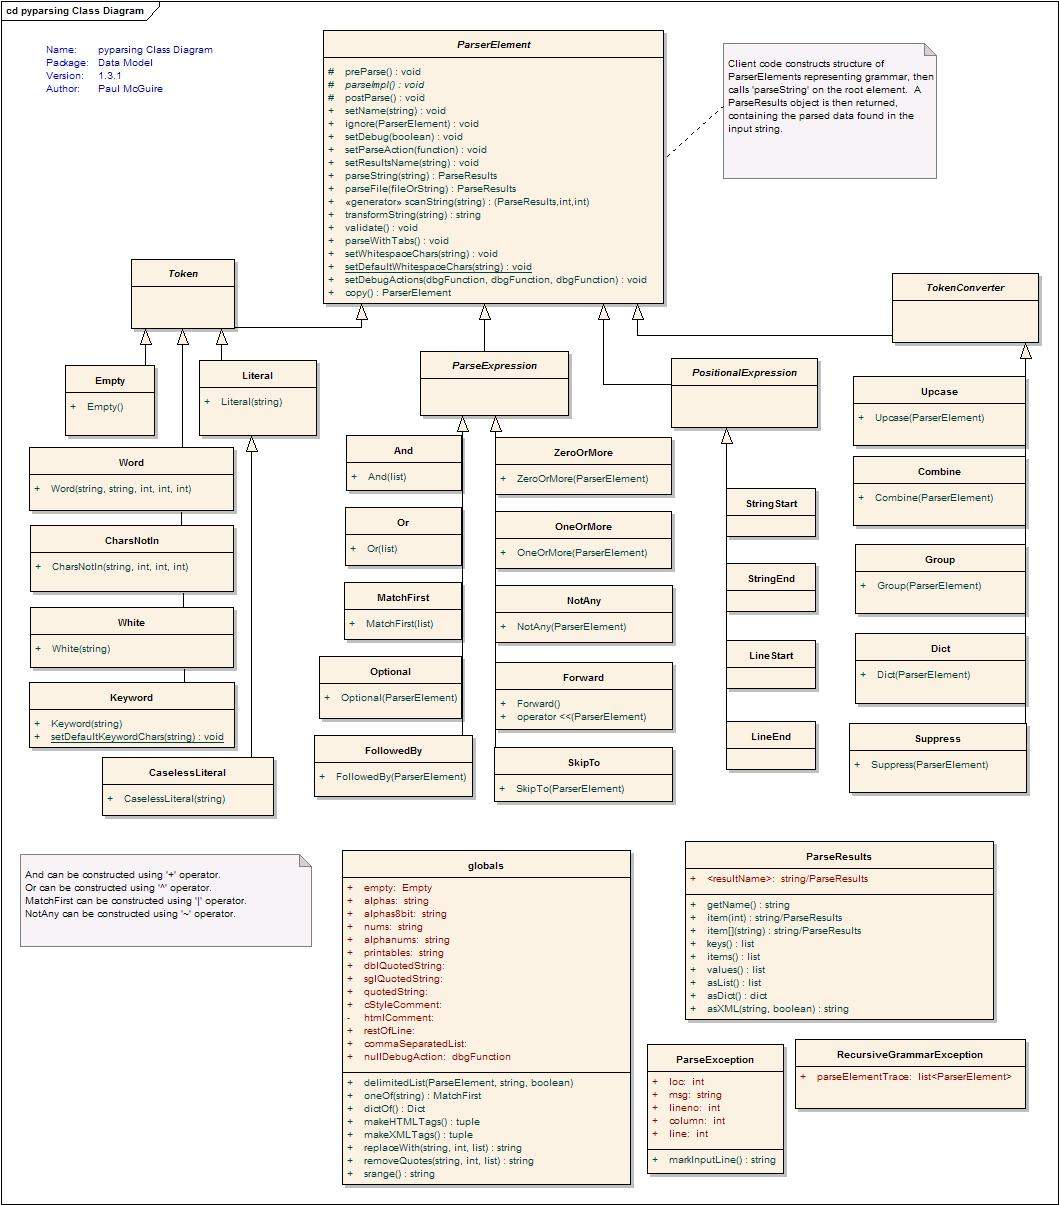
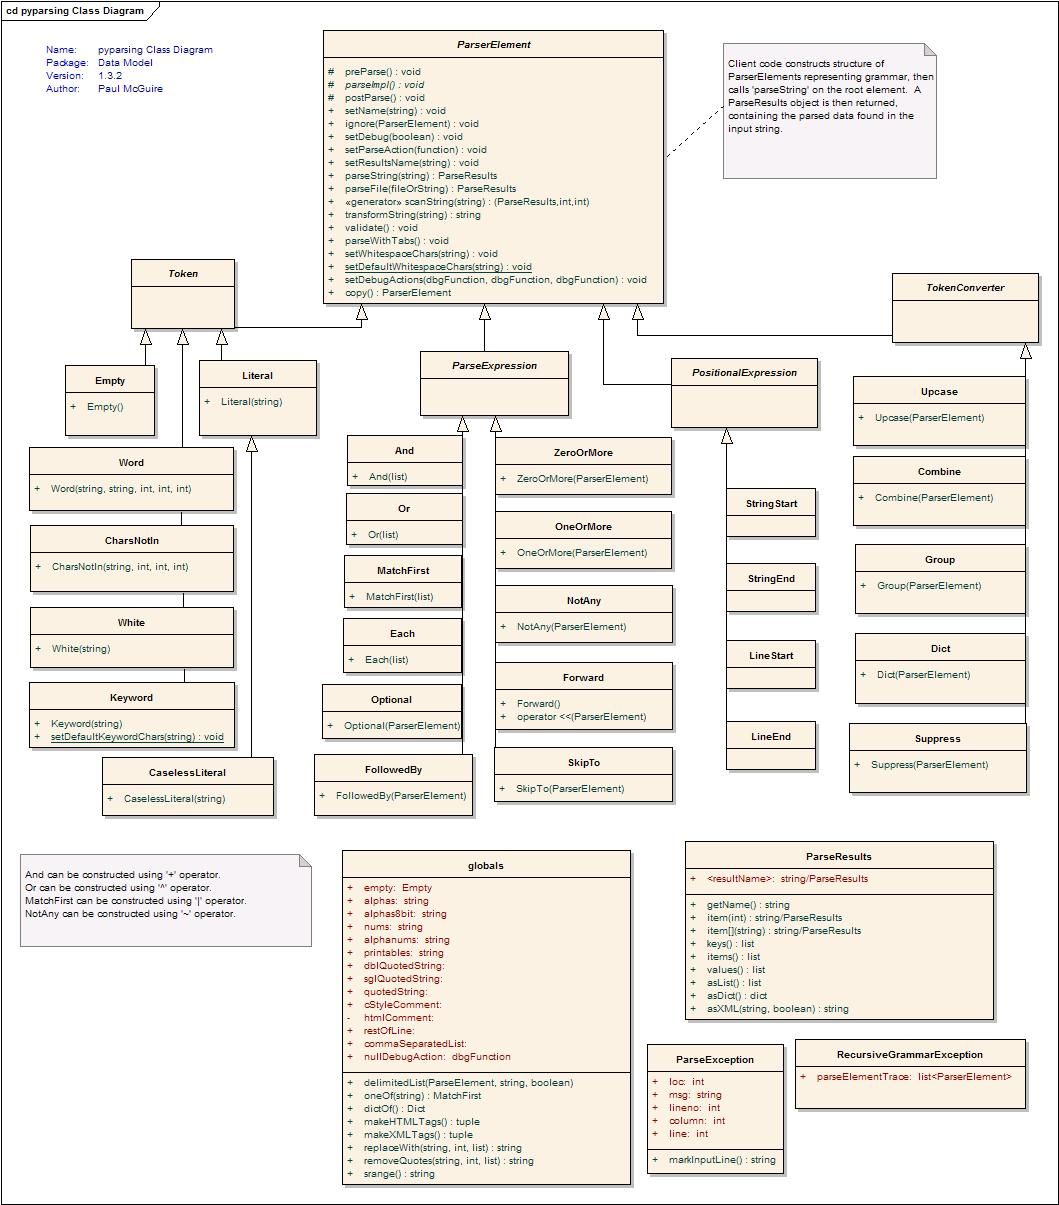
Version 1.3.2 files

Changed region(s): [[0.2805, 0.3685, 0.4674, 0.7062]]

diff --git a/pyparsing.py b/pyparsing.py
@@ -59,8 +59,8 @@ The pyparsing module handles some of the problems that are typically vexing when
  - quoted strings
  - embedded comments
 """
-__version__ = "1.3.1"
-__versionTime__ = "10 June 2005 08:43"
+__version__ = "1.3.2"
+__versionTime__ = "24 July 2005 17:37"
 __author__ = "Paul McGuire <ptmcg@users.sourceforge.net>"
 
 import string
@@ -700,6 +700,18 @@ class ParserElement(object):
             other = Literal( other )
         return other ^ self
 
+    def __and__(self, other ):
+        """Implementation of & operator - returns Each"""
+        if isinstance( other, basestring ):
+            other = Literal( other )
+        return Each( [ self, other ] )
+
+    def __rand__(self, other ):
+        """Implementation of right-& operator"""
+        if isinstance( other, basestring ):
+            other = Literal( other )
+        return other & self
+
     def __invert__( self ):
         """Implementation of ~ operator - returns NotAny"""
         return NotAny( self )
@@ -960,6 +972,8 @@ class Word(Token):
         else:
             self.bodyCharsOrig = initChars
             self.bodyChars = _str2dict(initChars)
+            
+        self.maxSpecified = max > 0
 
         self.minLen = min
 
@@ -991,8 +1005,14 @@ class Word(Token):
         maxloc = min( maxloc, len(instring) )
         while loc < maxloc and instring[loc] in bodychars:
             loc += 1
-
+            
+        throwException = False
         if loc - start < self.minLen:
+            throwException = True
+        if self.maxSpecified and loc < len(instring) and instring[loc] in bodychars:
+            throwException = True
+
+        if throwException:
             #~ raise ParseException, ( instring, loc, self.errmsg )
             exc = self.myException
             exc.loc = loc
@@ -1336,7 +1356,7 @@ class ParseExpression(ParserElement):
 
     def setResultsName( self, name, listAllMatches=False ):
         ret = super(ParseExpression,self).setResultsName(name,listAllMatches)
-        ret.saveAsList = True
+        #~ ret.saveAsList = True
         return ret
     
     def validate( self, validateTrace=[] ):
@@ -1351,7 +1371,7 @@ class And(ParseExpression):
        Expressions may be separated by whitespace.
        May be constructed using the '+' operator.
     """
-    def __init__( self, exprs, savelist = False ):
+    def __init__( self, exprs, savelist = True ):
         super(And,self).__init__(exprs, savelist)
         self.mayReturnEmpty = True
         for e in exprs:
@@ -1465,7 +1485,8 @@ class MatchFirst(ParseExpression):
         maxExcLoc = -1
         for e in self.exprs:
             try:
-                return e.parse( instring, loc, doActions )
+                ret = e.parse( instring, loc, doActions )
+                return ret
             except ParseException, err:
                 if err.loc > maxExcLoc:
                     maxException = err
@@ -1491,6 +1512,86 @@ class MatchFirst(ParseExpression):
             
         if self.strRepr is None:
             self.strRepr = "{" + " | ".join( [ _ustr(e) for e in self.exprs ] ) + "}"
+        
+        return self.strRepr
+    
+    def checkRecursion( self, parseElementList ):
+        subRecCheckList = parseElementList[:] + [ self ]
+        for e in self.exprs:
+            e.checkRecursion( subRecCheckList )
+
+
+class Each(ParseExpression):
+    """Requires all given ParseExpressions to be found, but in any order.
+       Expressions may be separated by whitespace.
+       May be constructed using the '&' operator.
+    """
+    def __init__( self, exprs, savelist = True ):
+        super(Each,self).__init__(exprs, savelist)
+        self.mayReturnEmpty = True
+        for e in exprs:
+            if not e.mayReturnEmpty:
+                self.mayReturnEmpty = False
+                break
+        self.skipWhitespace = True
+        self.optionals = [ e.expr for e in exprs if isinstance(e,Optional) ]
+        self.multioptionals = [ e.expr for e in exprs if isinstance(e,ZeroOrMore) ]
+        self.multirequired = [ e.expr for e in exprs if isinstance(e,OneOrMore) ]
+        self.required = [ e for e in exprs if not isinstance(e,(Optional,ZeroOrMore,OneOrMore)) ]
+        self.required += self.multirequired
+
+    def parseImpl( self, instring, loc, doActions=True ):
+        tmpLoc = loc
+        tmpReqd = self.required[:]
+        tmpOpt  = self.optionals[:]
+        matchOrder = []
+
+        keepMatching = True
+        while keepMatching:
+            tmpExprs = tmpReqd + tmpOpt + self.multioptionals + self.multirequired
+            failed = []
+            for e in tmpExprs:
+                try:
+                    tmpLoc = e.tryParse( instring, tmpLoc )
+                except ParseException:
+                    failed.append(e)
+                else:
+                    matchOrder.append(e)
+                    if e in tmpReqd:
+                        tmpReqd.remove(e)
+                    elif e in tmpOpt:
+                        tmpOpt.remove(e)
+            if len(failed) == len(tmpExprs):
+                keepMatching = False
+        
+        if tmpReqd:
+            missing = ", ".join( [ str(e) for e in tmpReqd ] )
+            raise ParseException(instring,loc,"Missing one or more required elements (%s)" % missing )
+
+        resultlist = []
+        for e in matchOrder:
+            loc,results = e.parse(instring,loc,doActions)
+            resultlist.append(results)
+            
+        finalResults = ParseResults([])
+        for r in resultlist:
+            dups = {}
+            for k in r.keys():
+                if k in finalResults.keys():
+                    tmp = ParseResults(finalResults[k])
+                    tmp += ParseResults(r[k])
+                    dups[k] = tmp
+            finalResults += ParseResults(r)
+            for k,v in dups.items():
+                finalResults[k] = v
+        return loc, finalResults
+
+    def __str__( self ):
+        if hasattr(self,"name"):
+            return self.name
+            
+        if self.strRepr is None:
+            self.strRepr = "{" + " & ".join( [ _ustr(e) for e in self.exprs ] ) + "}"
         
         return self.strRepr
     
@@ -1881,7 +1982,10 @@ class Dict(TokenConverter):
             else:
                 dictvalue = tok.copy() #ParseResults(i)
                 del dictvalue[0]
-                tokenlist[ikey] = (dictvalue,i)
+                if len(dictvalue)!= 1 or (isinstance(dictvalue,ParseResults) and dictvalue.keys()):
+                    tokenlist[ikey] = (dictvalue,i)
+                else:
+                    tokenlist[ikey] = (dictvalue[0],i)
 
         if self.resultsName:
             return [ tokenlist ]
